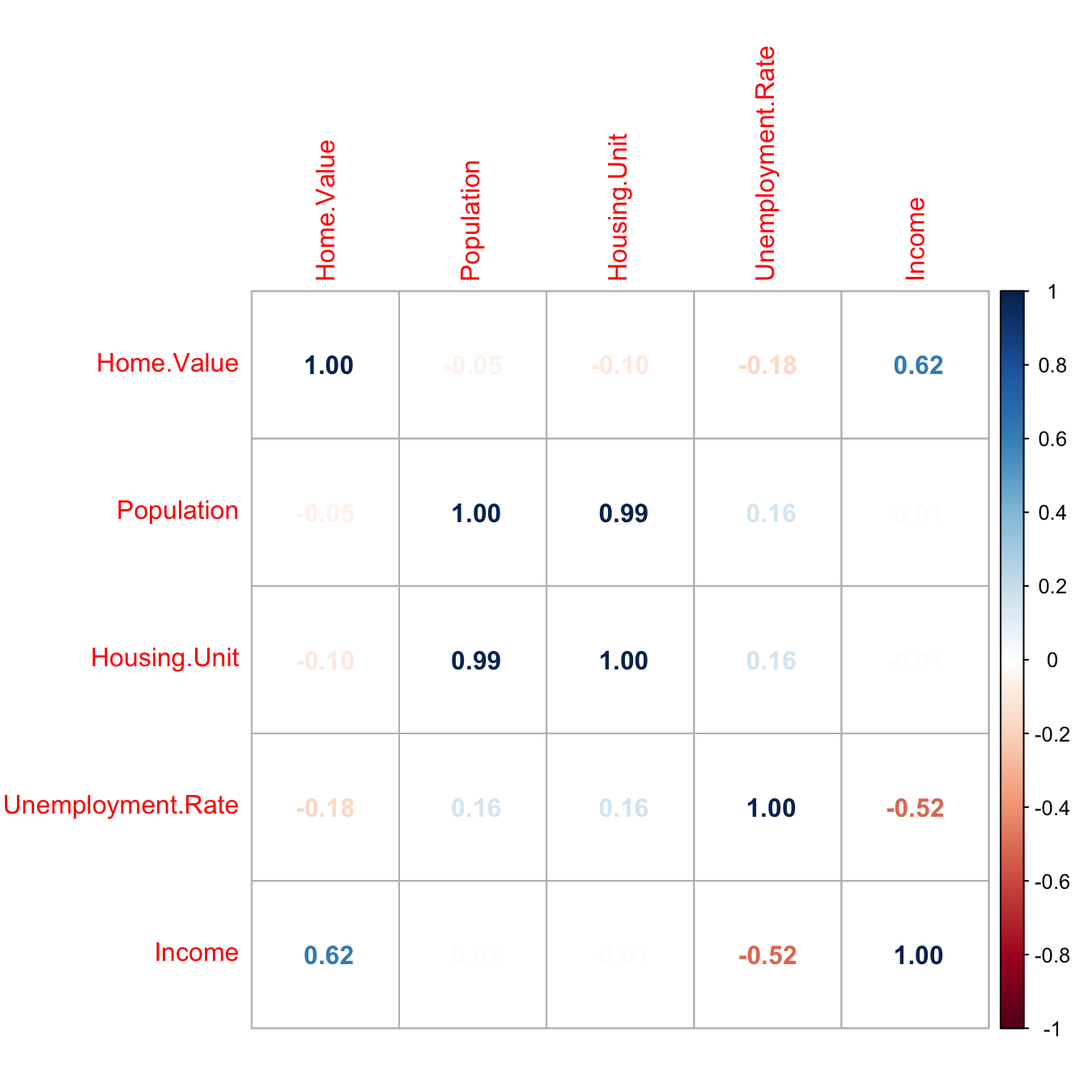
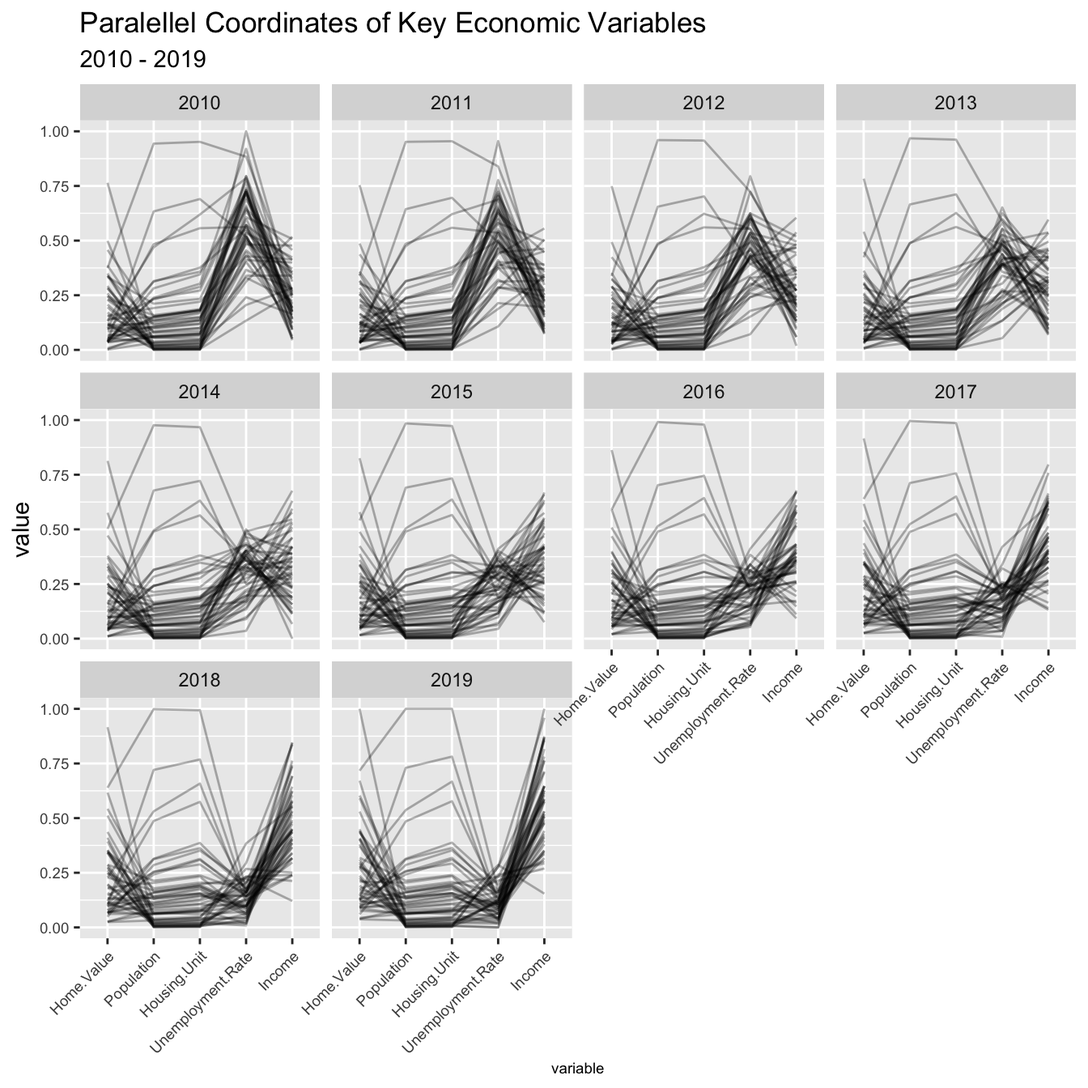
Updated graph dimensions

diff --git a/docs/results.html b/docs/results.html
@@ -24,7 +24,7 @@
 <meta name="author" content="Felix Yeung / Yingfei Zhu / Yufan Cao" />
 
 
-<meta name="date" content="2021-12-12" />
+<meta name="date" content="2021-12-13" />
 
   <meta name="viewport" content="width=device-width, initial-scale=1" />
   <meta name="apple-mobile-web-app-capable" content="yes" />
@@ -94,7 +94,12 @@
 <li class="chapter" data-level="5.3" data-path="results.html"><a href="results.html#observing-key-variables-across-geographies"><i class="fa fa-check"></i><b>5.3</b> Observing key variables across geographies</a></li>
 <li class="chapter" data-level="5.4" data-path="results.html"><a href="results.html#price-comparison-of-home-value"><i class="fa fa-check"></i><b>5.4</b> Price comparison of Home Value</a></li>
 </ul></li>
-<li class="chapter" data-level="6" data-path="interactive-component.html"><a href="interactive-component.html"><i class="fa fa-check"></i><b>6</b> Interactive component</a></li>
+<li class="chapter" data-level="6" data-path="interactive-component.html"><a href="interactive-component.html"><i class="fa fa-check"></i><b>6</b> Interactive component</a>
+<ul>
+<li class="chapter" data-level="6.1" data-path="interactive-component.html"><a href="interactive-component.html#motivation"><i class="fa fa-check"></i><b>6.1</b> Motivation</a></li>
+<li class="chapter" data-level="6.2" data-path="interactive-component.html"><a href="interactive-component.html#instruction-on-how-to-engage-with-the-interactive-plot"><i class="fa fa-check"></i><b>6.2</b> Instruction on how to engage with the interactive plot</a></li>
+<li class="chapter" data-level="6.3" data-path="interactive-component.html"><a href="interactive-component.html#interpretation"><i class="fa fa-check"></i><b>6.3</b> Interpretation</a></li>
+</ul></li>
 <li class="chapter" data-level="7" data-path="conclusion.html"><a href="conclusion.html"><i class="fa fa-check"></i><b>7</b> Conclusion</a></li>
 <li class="divider"></li>
 <li><a href="https://github.com/rstudio/bookdown" target="blank">Published with bookdown</a></li>
@@ -120,17 +125,17 @@
 <div id="understanding-relationships-between-economic-variables" class="section level2" number="5.1">
 <h2><span class="header-section-number">5.1</span> Understanding relationships between economic variables</h2>
 <p>In the first step of the investigation, its important to uncover relationships between each of the variables to determine the most interesting direction for the team to cover. The most obvious way is to determine whether there’s any correlations exist between home value, population, housing unit, unemployment, and income. This can be achieve through a correlation matrix, pairs plot, parallel coordinates chart.</p>
-<p><img src="finalproj_files/figure-html/unnamed-chunk-14-1.png" width="672" /><img src="finalproj_files/figure-html/unnamed-chunk-14-2.png" width="672" /></p>
+<p><img src="finalproj_files/figure-html/unnamed-chunk-13-1.png" width="672" /><img src="finalproj_files/figure-html/unnamed-chunk-13-2.png" width="672" /></p>
 <p>In the correlation matrix above, it is most obvious that there is a strong correlation between population and housing unit over the years. This should be natural in normal functioning society with low number of homelessness. However, there doesn’t seem to be any correlation between population and housing unit, which is interesting because this suggests that increasing population did not put upward pressure towards home values. Again, this can indiate that the home building market is efficient and is keeping up with population thus relieving any potential pent up demand.</p>
 <p>The second interesting observation here is the correlation (0.62) between income and home value. This suggests that increase in income in a State is also linked to increasing home values. Delving deeper, unemployment rate is negatively correlated (-0.52) to income but has little to no correlation (-0.18) to home values. This is interesting because perhaps income is a bridging variable that connect unemployment to home values.</p>
 <p>These results confirm this by viewing in a different perspective via parallel coordinates chart.</p>
-<p><img src="finalproj_files/figure-html/unnamed-chunk-15-1.png" width="672" /></p>
+<p><img src="finalproj_files/figure-html/unnamed-chunk-14-1.png" width="672" /></p>
 <p>By graphing the parallel coordinates plot and faceting over the years, the results confirm the relationships between unemployment rate, income, and home value. Furthermore, it provides insights into how it changes over time. The results suggest that following the 2008 recession unemployment rate steadily declined which lead to a increase income and then lead to an increase in home value in some states. It also confirms that population and housing unit are coorelated with each other but have no correlations with other variables.</p>
 </div>
 <div id="visualizing-the-known-relationships" class="section level2" number="5.2">
 <h2><span class="header-section-number">5.2</span> Visualizing the known relationships</h2>
 <p>After discovering the relationships between unemployment rate, income, and home value, we can extrapolate further by visualizing relationships between these variables in different perspectives.</p>
-<p><img src="finalproj_files/figure-html/unnamed-chunk-16-1.png" width="672" /></p>
+<p><img src="finalproj_files/figure-html/unnamed-chunk-15-1.png" width="672" /></p>
 <p>Reviewing the distribution between those 3 variables, the economic trends becomes much more apparent. First, focusing on unemployment rates vs income, following the financial crisis in 2010, unemployment rate across U.S. has a huge variance between 4% to 13%. During this year and the subsequent years, wages were capped between $40k to $80k. It wasn’t until unemployment rate was under control and below 7.5% that wages collectively increased.</p>
 <p>Now that we understand unemployment rate is a prerequisite for rising income, we can focus on income vs home values. Throughout the years, it can be observed that rising income leads to more expensive home prices. In fact, a wider range in income actually leads to a wider distribution of home value prices. In the beginning of the decade when income was much less distributed, home values across states also had less variance and was clustered under $200k per home. However, towards the end of the decade in 2019, home values &amp; and income became significantly more distributed.</p>
 </div>
@@ -138,25 +143,25 @@
 <h2><span class="header-section-number">5.3</span> Observing key variables across geographies</h2>
 <p>Now that these relationships are better understood, let’s explore how these trends shift and compare across different geographies.</p>
 <p>We will first look at unemployment rate over the past decade.</p>
-<p><img src="finalproj_files/figure-html/unnamed-chunk-17-1.png" width="864" /></p>
+<p><img src="finalproj_files/figure-html/unnamed-chunk-16-1.png" width="864" /></p>
 <p>From our observations of the choropleth heat map over time, West &amp; South East had the most severe unemployment rate in 2010. The recovery in the 9 years since then is significant. States like Nevada and California bridged 5-7% differences. It is notable because California had one of the highest unemployment rates but now commands some of the highest home prices in the U.S.</p>
-<p><img src="finalproj_files/figure-html/unnamed-chunk-21-1.png" width="672" /></p>
+<p><img src="finalproj_files/figure-html/unnamed-chunk-20-1.png" width="672" /></p>
 <p>Taking a closer look in the unemployment landscape of 2010, the results are remarkable given the current state of employment rates &amp; home values. Notable states that had the highest unemployment rates amongst States are Nevada, Michigan, California, and Florida. As we review Income &amp; Home Value, it will be more apparent that these States are notable because of their dramatic recovery.</p>
-<p><img src="finalproj_files/figure-html/unnamed-chunk-22-1.png" width="672" /></p>
+<p><img src="finalproj_files/figure-html/unnamed-chunk-21-1.png" width="864" /></p>
 <p>As unemployment rate improved, the states that had the worst unemployment rates actually turned to have the highest incomes or neighbor states that have the highest income.</p>
-<p><img src="finalproj_files/figure-html/unnamed-chunk-23-1.png" width="672" /></p>
+<p><img src="finalproj_files/figure-html/unnamed-chunk-22-1.png" width="864" /></p>
 <p>Noted form before, home values typically follow income. The states that developed the highest income also developed comparatively higher home prices. However, looking at the map, there’s another notable trend that can be observed. Despite having some of the highest income in US, the home prices in the Northeastern part of the country did not rise as dramatically as the Western part of the US. There’s not enough data to conclusively understand why; perhaps we can augment the analysis in the future with weather data, sentiments, etc. to better understand.</p>
-<p><img src="finalproj_files/figure-html/unnamed-chunk-24-1.png" width="672" /></p>
+<p><img src="finalproj_files/figure-html/unnamed-chunk-23-1.png" width="864" /></p>
 <p>Lastly, by graphic Income vs Home Value for each of the State, we can validate our findings with a trend a line and Rsquared values. We can confirm that the notable Western States (e.g. CA &amp; NV) have a steeper slope when compared to the rest of the States; this supports our theory that it has the fastest growth in income and home value prices over the last decade.</p>
 <p>We can also confirm that select Northeastern States have an increase in income but home value has not grown comparatively (e.g. NJ &amp; CT)</p>
 </div>
 <div id="price-comparison-of-home-value" class="section level2" number="5.4">
 <h2><span class="header-section-number">5.4</span> Price comparison of Home Value</h2>
 <p>Finally, to conclude this study, we will further investigate home value to better understand the specifics of how it changes for each State over the years. Through understanding the price dynamics across the market, we can perhaps help buyers/readers understand the history and navigate purchasing decisions.</p>
-<p><img src="finalproj_files/figure-html/unnamed-chunk-25-1.png" width="624" /></p>
+<p><img src="finalproj_files/figure-html/unnamed-chunk-24-1.png" width="672" /></p>
 <p>From the above Cleveland Dot Plot, it is apparent that the most expensive States continued to be the most expensive. The markets that are hottest actually had the biggest price increases from the past decade and increased prices in multiples while cheaper markets only have modest gains (e.g. HI, CA, etc.)</p>
 <p>It is notable that most States have the highest value in the most recent year of 2019 with a few exceptions: Rhode Island &amp; New Jersey.</p>
-<p><img src="finalproj_files/figure-html/unnamed-chunk-27-1.png" width="672" /></p>
+<p><img src="finalproj_files/figure-html/unnamed-chunk-26-1.png" width="672" /></p>
 <p>Next, we can divide the geography into the 4 major regions in US. Looking at the distributions, here are the main insights:</p>
 <ol style="list-style-type: decimal">
 <li>The order of descending median home values are as follows: West, NorthEast, South, and MidWest.</li>
@@ -165,8 +170,8 @@
 <li>Northeast distribution of prices have remained relatively stable throughout the decade.</li>
 <li>Midwest has the cheapest real estate and also the most narrow distribution</li>
 </ol>
-<p><img src="finalproj_files/figure-html/unnamed-chunk-28-1.png" width="672" /></p>
-<p><img src="finalproj_files/figure-html/unnamed-chunk-29-1.png" width="768" /></p>
+<p><img src="finalproj_files/figure-html/unnamed-chunk-27-1.png" width="672" /></p>
+<p><img src="finalproj_files/figure-html/unnamed-chunk-28-1.png" width="768" /></p>
 <p>As a final statement in this study, we also want to learn whether the growth in income have kept pace with the growth in home value. After all, if income was not able to keep pace, then the rise in home value could actually be a detriment to communities because it makes the housing less affordable. We do this by charting Value/Income.</p>
 <p>For the most part, states have maintained or improved on this ratio; we can observe this by the flat to downward slope. This is especially apparent in the Northeastern part of U.S.</p>
 <p>On the other hand, the Western Part of the US which have seen significant increase in Home Value have actually deteriorated this ratio; we can observe this by the positive slope. This is especially apparent for States such as CA, NV, CO, etc.</p>

diff --git a/docs/interactive-component.html b/docs/interactive-component.html
@@ -4,11 +4,11 @@
 
   <meta charset="utf-8" />
   <meta http-equiv="X-UA-Compatible" content="IE=edge" />
-  <title>Chapter 6 Interactive component | Final Project</title>
-  <meta name="description" content="Chapter 6 Interactive component | Final Project" />
+  <title>Chapter 6 Interactive component | Housing Price Analysis</title>
+  <meta name="description" content="Chapter 6 Interactive component | Housing Price Analysis" />
   <meta name="generator" content="bookdown 0.24 and GitBook 2.6.7" />
 
-  <meta property="og:title" content="Chapter 6 Interactive component | Final Project" />
+  <meta property="og:title" content="Chapter 6 Interactive component | Housing Price Analysis" />
   <meta property="og:type" content="book" />
   
   
@@ -16,15 +16,15 @@
   
 
   <meta name="twitter:card" content="summary" />
-  <meta name="twitter:title" content="Chapter 6 Interactive component | Final Project" />
+  <meta name="twitter:title" content="Chapter 6 Interactive component | Housing Price Analysis" />
   
   
   
 
-<meta name="author" content="YOUR NAMES HERE" />
+<meta name="author" content="Felix Yeung / Yingfei Zhu / Yufan Cao" />
 
 
-<meta name="date" content="2021-12-14" />
+<meta name="date" content="2021-12-13" />
 
   <meta name="viewport" content="width=device-width, initial-scale=1" />
   <meta name="apple-mobile-web-app-capable" content="yes" />
@@ -33,6 +33,7 @@
   
 <link rel="prev" href="results.html"/>
 <link rel="next" href="conclusion.html"/>
+<script src="libs/header-attrs-2.11/header-attrs.js"></script>
 <script src="libs/jquery-3.6.0/jquery-3.6.0.min.js"></script>
 <script src="https://cdn.jsdelivr.net/npm/fuse.js@6.4.6/dist/fuse.min.js"></script>
 <link href="libs/gitbook-2.6.7/css/style.css" rel="stylesheet" />
@@ -69,15 +70,32 @@
       <nav role="navigation">
 
 <ul class="summary">
-<li><a href="./">SHORT TITLE HERE</a></li>
+<li><a href="./">HousingPrice</a></li>
 
 <li class="divider"></li>
 <li class="chapter" data-level="1" data-path="index.html"><a href="index.html"><i class="fa fa-check"></i><b>1</b> Introduction</a></li>
-<li class="chapter" data-level="2" data-path="data-sources.html"><a href="data-sources.html"><i class="fa fa-check"></i><b>2</b> Data sources</a></li>
+<li class="chapter" data-level="2" data-path="data-sources.html"><a href="data-sources.html"><i class="fa fa-check"></i><b>2</b> Data sources</a>
+<ul>
+<li class="chapter" data-level="2.1" data-path="data-sources.html"><a href="data-sources.html#home-value-data"><i class="fa fa-check"></i><b>2.1</b> Home Value Data</a></li>
+<li class="chapter" data-level="2.2" data-path="data-sources.html"><a href="data-sources.html#other-variables"><i class="fa fa-check"></i><b>2.2</b> Other Variables</a>
+<ul>
+<li class="chapter" data-level="2.2.1" data-path="data-sources.html"><a href="data-sources.html#population"><i class="fa fa-check"></i><b>2.2.1</b> Population</a></li>
+<li class="chapter" data-level="2.2.2" data-path="data-sources.html"><a href="data-sources.html#housing-unit"><i class="fa fa-check"></i><b>2.2.2</b> Housing unit</a></li>
+<li class="chapter" data-level="2.2.3" data-path="data-sources.html"><a href="data-sources.html#income"><i class="fa fa-check"></i><b>2.2.3</b> Income</a></li>
+<li class="chapter" data-level="2.2.4" data-path="data-sources.html"><a href="data-sources.html#unemployment-rate"><i class="fa fa-check"></i><b>2.2.4</b> Unemployment Rate</a></li>
+</ul></li>
+</ul></li>
 <li class="chapter" data-level="3" data-path="data-transformation.html"><a href="data-transformation.html"><i class="fa fa-check"></i><b>3</b> Data transformation</a></li>
 <li class="chapter" data-level="4" data-path="missing-values.html"><a href="missing-values.html"><i class="fa fa-check"></i><b>4</b> Missing values</a></li>
-<li class="chapter" data-level="5" data-path="results.html"><a href="results.html"><i class="fa fa-check"></i><b>5</b> Results</a></li>
-<li class="chapter" data-level="6" data-path="interactive-component.html"><a href="interactive-component.html"><i class="fa fa-check"></i><b>6</b> Interactive component</a><ul>
+<li class="chapter" data-level="5" data-path="results.html"><a href="results.html"><i class="fa fa-check"></i><b>5</b> Results</a>
+<ul>
+<li class="chapter" data-level="5.1" data-path="results.html"><a href="results.html#understanding-relationships-between-economic-variables"><i class="fa fa-check"></i><b>5.1</b> Understanding relationships between economic variables</a></li>
+<li class="chapter" data-level="5.2" data-path="results.html"><a href="results.html#visualizing-the-known-relationships"><i class="fa fa-check"></i><b>5.2</b> Visualizing the known relationships</a></li>
+<li class="chapter" data-level="5.3" data-path="results.html"><a href="results.html#observing-key-variables-across-geographies"><i class="fa fa-check"></i><b>5.3</b> Observing key variables across geographies</a></li>
+<li class="chapter" data-level="5.4" data-path="results.html"><a href="results.html#price-comparison-of-home-value"><i class="fa fa-check"></i><b>5.4</b> Price comparison of Home Value</a></li>
+</ul></li>
+<li class="chapter" data-level="6" data-path="interactive-component.html"><a href="interactive-component.html"><i class="fa fa-check"></i><b>6</b> Interactive component</a>
+<ul>
 <li class="chapter" data-level="6.1" data-path="interactive-component.html"><a href="interactive-component.html#motivation"><i class="fa fa-check"></i><b>6.1</b> Motivation</a></li>
 <li class="chapter" data-level="6.2" data-path="interactive-component.html"><a href="interactive-component.html#instruction-on-how-to-engage-with-the-interactive-plot"><i class="fa fa-check"></i><b>6.2</b> Instruction on how to engage with the interactive plot</a></li>
 <li class="chapter" data-level="6.3" data-path="interactive-component.html"><a href="interactive-component.html#interpretation"><i class="fa fa-check"></i><b>6.3</b> Interpretation</a></li>
@@ -94,7 +112,7 @@
       <div class="body-inner">
         <div class="book-header" role="navigation">
           <h1>
-            <i class="fa fa-circle-o-notch fa-spin"></i><a href="./">Final Project</a>
+            <i class="fa fa-circle-o-notch fa-spin"></i><a href="./">Housing Price Analysis</a>
           </h1>
         </div>
 
@@ -102,15 +120,15 @@
           <div class="page-inner">
 
             <section class="normal" id="section-">
-<div id="interactive-component" class="section level1">
+<div id="interactive-component" class="section level1" number="6">
 <h1><span class="header-section-number">Chapter 6</span> Interactive component</h1>
-<div id="motivation" class="section level2">
+<div id="motivation" class="section level2" number="6.1">
 <h2><span class="header-section-number">6.1</span> Motivation</h2>
 <p>As seen in our results in Chapter 5 for home value, our analysis covers the effect of the different economic variables on home value over 10 years. In our analysis, we were only able to visually compare across the different years &amp; States by plotting the graphs side-by side. This make it incredibly difficult to visually confirm trends through the geographic dimension versus the temporal dimension. In order to get a better overview of these changes, we decided to create a choropleth maps of home value which can be changed over time.</p>
 </div>
-<div id="instruction-on-how-to-engage-with-the-interactive-plot" class="section level2">
+<div id="instruction-on-how-to-engage-with-the-interactive-plot" class="section level2" number="6.2">
 <h2><span class="header-section-number">6.2</span> Instruction on how to engage with the interactive plot</h2>
-<p>This interactive plot demonstrates the average home value among 50 states in the US for 10 years. You can double click the top year bar to activate the year change tool. After activation, you can drag the tab throughout the years to see how the home values changes across the 50 States. When you hover your mouse over specific states on the map, you can also see a tooltip containing the state name, home value, and the year. Lastly, you can also hover over the legend to see all states that belong to the specific home value group in the selected year.</p>
+<p>This interactive plot demonstrates the average home value among 50 states in the US for 10 years. You can double click the top year bar to activate the year change tool. After activation, you can drag the tab throughout the years to see how the home values changes across the 50 States. When you hover your mouse over specific states on the map, you can also see a tooltip containing the state name, home value, and the year. Lastly, you can also hover over the legend to see all states that belong to the specific home value group in the selected year..</p>
 <link rel="stylesheet" href="https://cdnjs.cloudflare.com/ajax/libs/ion-rangeslider/2.3.1/css/ion.rangeSlider.min.css"/>
 <style>
         body {
@@ -448,7 +466,7 @@ d3.json("counties-10m.json").then(function (root) {
 });
 </script>
 </div>
-<div id="interpretation" class="section level2">
+<div id="interpretation" class="section level2" number="6.3">
 <h2><span class="header-section-number">6.3</span> Interpretation</h2>
 <p>Starting in the year 2010, we observed that the average home value among the 50 States range from 90k – 300k. Massachusetts has the highest home value in the year 2010.
 As time passes, we notice that home value in the west region increases faster when compared to the Midwest, South, and the Northeast. In the year 2013, home value in California surpassed the home value in Massachusetts. Since then, California’s home value stayed as the highest home value among the 50 states. It can also be observed that the average home value of the Northeast and the West is higher than the average home value in the South region and the Midwest. Visualizing these trends interactively enables the viewer to firmly grasp the changes of value over the years across the regions, which adds a new dimension to understanding the data when compared to just static pictures.</p>
@@ -492,7 +510,7 @@ gitbook.start({
 "size": 2
 },
 "edit": {
-"link": "https://github.com/GUANCHAOHUANG/d3/edit/main/06-interactive.Rmd",
+"link": "https://github.com/EDAV-Fall2021-final-project/USrealestate/edit/main/06-interactive.Rmd",
 "text": "Edit"
 },
 "history": {
@@ -500,7 +518,7 @@ gitbook.start({
 "text": null
 },
 "view": {
-"link": "https://github.com/GUANCHAOHUANG/d3/blob/main/06-interactive.Rmd",
+"link": "https://github.com/EDAV-Fall2021-final-project/USrealestate/blob/main/06-interactive.Rmd",
 "text": null
 },
 "download": null,

diff --git a/docs/missing-values.html b/docs/missing-values.html
@@ -24,7 +24,7 @@
 <meta name="author" content="Felix Yeung / Yingfei Zhu / Yufan Cao" />
 
 
-<meta name="date" content="2021-12-12" />
+<meta name="date" content="2021-12-13" />
 
   <meta name="viewport" content="width=device-width, initial-scale=1" />
   <meta name="apple-mobile-web-app-capable" content="yes" />
@@ -94,7 +94,12 @@
 <li class="chapter" data-level="5.3" data-path="results.html"><a href="results.html#observing-key-variables-across-geographies"><i class="fa fa-check"></i><b>5.3</b> Observing key variables across geographies</a></li>
 <li class="chapter" data-level="5.4" data-path="results.html"><a href="results.html#price-comparison-of-home-value"><i class="fa fa-check"></i><b>5.4</b> Price comparison of Home Value</a></li>
 </ul></li>
-<li class="chapter" data-level="6" data-path="interactive-component.html"><a href="interactive-component.html"><i class="fa fa-check"></i><b>6</b> Interactive component</a></li>
+<li class="chapter" data-level="6" data-path="interactive-component.html"><a href="interactive-component.html"><i class="fa fa-check"></i><b>6</b> Interactive component</a>
+<ul>
+<li class="chapter" data-level="6.1" data-path="interactive-component.html"><a href="interactive-component.html#motivation"><i class="fa fa-check"></i><b>6.1</b> Motivation</a></li>
+<li class="chapter" data-level="6.2" data-path="interactive-component.html"><a href="interactive-component.html#instruction-on-how-to-engage-with-the-interactive-plot"><i class="fa fa-check"></i><b>6.2</b> Instruction on how to engage with the interactive plot</a></li>
+<li class="chapter" data-level="6.3" data-path="interactive-component.html"><a href="interactive-component.html#interpretation"><i class="fa fa-check"></i><b>6.3</b> Interpretation</a></li>
+</ul></li>
 <li class="chapter" data-level="7" data-path="conclusion.html"><a href="conclusion.html"><i class="fa fa-check"></i><b>7</b> Conclusion</a></li>
 <li class="divider"></li>
 <li><a href="https://github.com/rstudio/bookdown" target="blank">Published with bookdown</a></li>
@@ -117,7 +122,7 @@
             <section class="normal" id="section-">
 <div id="missing-values" class="section level1" number="4">
 <h1><span class="header-section-number">Chapter 4</span> Missing values</h1>
-<p><img src="finalproj_files/figure-html/unnamed-chunk-10-1.png" width="672" /></p>
+<p><img src="finalproj_files/figure-html/unnamed-chunk-9-1.png" width="672" /></p>
 <p>As mentioned in our data source section, the datasets we are using for this investigation comes from Census and Zillow. The Census datasets that we are referencing contains information such as income, population, unemployment, and housing unit. These datssets come from the government organization and are mostly complete. However, on the other hand, the home value data from Zillow, which contains 10 years of price data across 900 distinct cities in US, are missing many data points. By plotting the Zillow Data using the missing value plot, we notice that year 2010 has the maximum number of missing values of ‘homevalue’, and the number of missing values decreases gradually over the years.</p>
 <p>To supplement these missing values, we perform an imputation for our missing value Since our data is time series of home value from year 2010 to year 2019, we applied the Time-series Specific method. The time series method of imputation assume the adjacent observations will be similar to the missing data. These assumpetions work well for price over time as each data point would be similar to its temporal neighbors.</p>
 

diff --git a/docs/index.html b/docs/index.html
@@ -24,7 +24,7 @@
 <meta name="author" content="Felix Yeung / Yingfei Zhu / Yufan Cao" />
 
 
-<meta name="date" content="2021-12-12" />
+<meta name="date" content="2021-12-13" />
 
   <meta name="viewport" content="width=device-width, initial-scale=1" />
   <meta name="apple-mobile-web-app-capable" content="yes" />
@@ -94,7 +94,12 @@
 <li class="chapter" data-level="5.3" data-path="results.html"><a href="results.html#observing-key-variables-across-geographies"><i class="fa fa-check"></i><b>5.3</b> Observing key variables across geographies</a></li>
 <li class="chapter" data-level="5.4" data-path="results.html"><a href="results.html#price-comparison-of-home-value"><i class="fa fa-check"></i><b>5.4</b> Price comparison of Home Value</a></li>
 </ul></li>
-<li class="chapter" data-level="6" data-path="interactive-component.html"><a href="interactive-component.html"><i class="fa fa-check"></i><b>6</b> Interactive component</a></li>
+<li class="chapter" data-level="6" data-path="interactive-component.html"><a href="interactive-component.html"><i class="fa fa-check"></i><b>6</b> Interactive component</a>
+<ul>
+<li class="chapter" data-level="6.1" data-path="interactive-component.html"><a href="interactive-component.html#motivation"><i class="fa fa-check"></i><b>6.1</b> Motivation</a></li>
+<li class="chapter" data-level="6.2" data-path="interactive-component.html"><a href="interactive-component.html#instruction-on-how-to-engage-with-the-interactive-plot"><i class="fa fa-check"></i><b>6.2</b> Instruction on how to engage with the interactive plot</a></li>
+<li class="chapter" data-level="6.3" data-path="interactive-component.html"><a href="interactive-component.html#interpretation"><i class="fa fa-check"></i><b>6.3</b> Interpretation</a></li>
+</ul></li>
 <li class="chapter" data-level="7" data-path="conclusion.html"><a href="conclusion.html"><i class="fa fa-check"></i><b>7</b> Conclusion</a></li>
 <li class="divider"></li>
 <li><a href="https://github.com/rstudio/bookdown" target="blank">Published with bookdown</a></li>
@@ -118,7 +123,7 @@
 <div id="header">
 <h1 class="title">Housing Price Analysis</h1>
 <p class="author"><em>Felix Yeung / Yingfei Zhu / Yufan Cao</em></p>
-<p class="date"><em>2021-12-12</em></p>
+<p class="date"><em>2021-12-13</em></p>
 </div>
 <div id="introduction" class="section level1" number="1">
 <h1><span class="header-section-number">Chapter 1</span> Introduction</h1>

diff --git a/docs/404.html b/docs/404.html
@@ -24,7 +24,7 @@
 <meta name="author" content="Felix Yeung / Yingfei Zhu / Yufan Cao" />
 
 
-<meta name="date" content="2021-12-12" />
+<meta name="date" content="2021-12-13" />
 
   <meta name="viewport" content="width=device-width, initial-scale=1" />
   <meta name="apple-mobile-web-app-capable" content="yes" />
@@ -94,7 +94,12 @@
 <li class="chapter" data-level="5.3" data-path="results.html"><a href="results.html#observing-key-variables-across-geographies"><i class="fa fa-check"></i><b>5.3</b> Observing key variables across geographies</a></li>
 <li class="chapter" data-level="5.4" data-path="results.html"><a href="results.html#price-comparison-of-home-value"><i class="fa fa-check"></i><b>5.4</b> Price comparison of Home Value</a></li>
 </ul></li>
-<li class="chapter" data-level="6" data-path="interactive-component.html"><a href="interactive-component.html"><i class="fa fa-check"></i><b>6</b> Interactive component</a></li>
+<li class="chapter" data-level="6" data-path="interactive-component.html"><a href="interactive-component.html"><i class="fa fa-check"></i><b>6</b> Interactive component</a>
+<ul>
+<li class="chapter" data-level="6.1" data-path="interactive-component.html"><a href="interactive-component.html#motivation"><i class="fa fa-check"></i><b>6.1</b> Motivation</a></li>
+<li class="chapter" data-level="6.2" data-path="interactive-component.html"><a href="interactive-component.html#instruction-on-how-to-engage-with-the-interactive-plot"><i class="fa fa-check"></i><b>6.2</b> Instruction on how to engage with the interactive plot</a></li>
+<li class="chapter" data-level="6.3" data-path="interactive-component.html"><a href="interactive-component.html#interpretation"><i class="fa fa-check"></i><b>6.3</b> Interpretation</a></li>
+</ul></li>
 <li class="chapter" data-level="7" data-path="conclusion.html"><a href="conclusion.html"><i class="fa fa-check"></i><b>7</b> Conclusion</a></li>
 <li class="divider"></li>
 <li><a href="https://github.com/rstudio/bookdown" target="blank">Published with bookdown</a></li>

diff --git a/docs/conclusion.html b/docs/conclusion.html
@@ -24,7 +24,7 @@
 <meta name="author" content="Felix Yeung / Yingfei Zhu / Yufan Cao" />
 
 
-<meta name="date" content="2021-12-12" />
+<meta name="date" content="2021-12-13" />
 
   <meta name="viewport" content="width=device-width, initial-scale=1" />
   <meta name="apple-mobile-web-app-capable" content="yes" />
@@ -94,7 +94,12 @@
 <li class="chapter" data-level="5.3" data-path="results.html"><a href="results.html#observing-key-variables-across-geographies"><i class="fa fa-check"></i><b>5.3</b> Observing key variables across geographies</a></li>
 <li class="chapter" data-level="5.4" data-path="results.html"><a href="results.html#price-comparison-of-home-value"><i class="fa fa-check"></i><b>5.4</b> Price comparison of Home Value</a></li>
 </ul></li>
-<li class="chapter" data-level="6" data-path="interactive-component.html"><a href="interactive-component.html"><i class="fa fa-check"></i><b>6</b> Interactive component</a></li>
+<li class="chapter" data-level="6" data-path="interactive-component.html"><a href="interactive-component.html"><i class="fa fa-check"></i><b>6</b> Interactive component</a>
+<ul>
+<li class="chapter" data-level="6.1" data-path="interactive-component.html"><a href="interactive-component.html#motivation"><i class="fa fa-check"></i><b>6.1</b> Motivation</a></li>
+<li class="chapter" data-level="6.2" data-path="interactive-component.html"><a href="interactive-component.html#instruction-on-how-to-engage-with-the-interactive-plot"><i class="fa fa-check"></i><b>6.2</b> Instruction on how to engage with the interactive plot</a></li>
+<li class="chapter" data-level="6.3" data-path="interactive-component.html"><a href="interactive-component.html#interpretation"><i class="fa fa-check"></i><b>6.3</b> Interpretation</a></li>
+</ul></li>
 <li class="chapter" data-level="7" data-path="conclusion.html"><a href="conclusion.html"><i class="fa fa-check"></i><b>7</b> Conclusion</a></li>
 <li class="divider"></li>
 <li><a href="https://github.com/rstudio/bookdown" target="blank">Published with bookdown</a></li>

diff --git a/docs/data-sources.html b/docs/data-sources.html
@@ -24,7 +24,7 @@
 <meta name="author" content="Felix Yeung / Yingfei Zhu / Yufan Cao" />
 
 
-<meta name="date" content="2021-12-12" />
+<meta name="date" content="2021-12-13" />
 
   <meta name="viewport" content="width=device-width, initial-scale=1" />
   <meta name="apple-mobile-web-app-capable" content="yes" />
@@ -94,7 +94,12 @@
 <li class="chapter" data-level="5.3" data-path="results.html"><a href="results.html#observing-key-variables-across-geographies"><i class="fa fa-check"></i><b>5.3</b> Observing key variables across geographies</a></li>
 <li class="chapter" data-level="5.4" data-path="results.html"><a href="results.html#price-comparison-of-home-value"><i class="fa fa-check"></i><b>5.4</b> Price comparison of Home Value</a></li>
 </ul></li>
-<li class="chapter" data-level="6" data-path="interactive-component.html"><a href="interactive-component.html"><i class="fa fa-check"></i><b>6</b> Interactive component</a></li>
+<li class="chapter" data-level="6" data-path="interactive-component.html"><a href="interactive-component.html"><i class="fa fa-check"></i><b>6</b> Interactive component</a>
+<ul>
+<li class="chapter" data-level="6.1" data-path="interactive-component.html"><a href="interactive-component.html#motivation"><i class="fa fa-check"></i><b>6.1</b> Motivation</a></li>
+<li class="chapter" data-level="6.2" data-path="interactive-component.html"><a href="interactive-component.html#instruction-on-how-to-engage-with-the-interactive-plot"><i class="fa fa-check"></i><b>6.2</b> Instruction on how to engage with the interactive plot</a></li>
+<li class="chapter" data-level="6.3" data-path="interactive-component.html"><a href="interactive-component.html#interpretation"><i class="fa fa-check"></i><b>6.3</b> Interpretation</a></li>
+</ul></li>
 <li class="chapter" data-level="7" data-path="conclusion.html"><a href="conclusion.html"><i class="fa fa-check"></i><b>7</b> Conclusion</a></li>
 <li class="divider"></li>
 <li><a href="https://github.com/rstudio/bookdown" target="blank">Published with bookdown</a></li>

diff --git a/docs/data-transformation.html b/docs/data-transformation.html
@@ -24,7 +24,7 @@
 <meta name="author" content="Felix Yeung / Yingfei Zhu / Yufan Cao" />
 
 
-<meta name="date" content="2021-12-12" />
+<meta name="date" content="2021-12-13" />
 
   <meta name="viewport" content="width=device-width, initial-scale=1" />
   <meta name="apple-mobile-web-app-capable" content="yes" />
@@ -94,7 +94,12 @@
 <li class="chapter" data-level="5.3" data-path="results.html"><a href="results.html#observing-key-variables-across-geographies"><i class="fa fa-check"></i><b>5.3</b> Observing key variables across geographies</a></li>
 <li class="chapter" data-level="5.4" data-path="results.html"><a href="results.html#price-comparison-of-home-value"><i class="fa fa-check"></i><b>5.4</b> Price comparison of Home Value</a></li>
 </ul></li>
-<li class="chapter" data-level="6" data-path="interactive-component.html"><a href="interactive-component.html"><i class="fa fa-check"></i><b>6</b> Interactive component</a></li>
+<li class="chapter" data-level="6" data-path="interactive-component.html"><a href="interactive-component.html"><i class="fa fa-check"></i><b>6</b> Interactive component</a>
+<ul>
+<li class="chapter" data-level="6.1" data-path="interactive-component.html"><a href="interactive-component.html#motivation"><i class="fa fa-check"></i><b>6.1</b> Motivation</a></li>
+<li class="chapter" data-level="6.2" data-path="interactive-component.html"><a href="interactive-component.html#instruction-on-how-to-engage-with-the-interactive-plot"><i class="fa fa-check"></i><b>6.2</b> Instruction on how to engage with the interactive plot</a></li>
+<li class="chapter" data-level="6.3" data-path="interactive-component.html"><a href="interactive-component.html#interpretation"><i class="fa fa-check"></i><b>6.3</b> Interpretation</a></li>
+</ul></li>
 <li class="chapter" data-level="7" data-path="conclusion.html"><a href="conclusion.html"><i class="fa fa-check"></i><b>7</b> Conclusion</a></li>
 <li class="divider"></li>
 <li><a href="https://github.com/rstudio/bookdown" target="blank">Published with bookdown</a></li>
